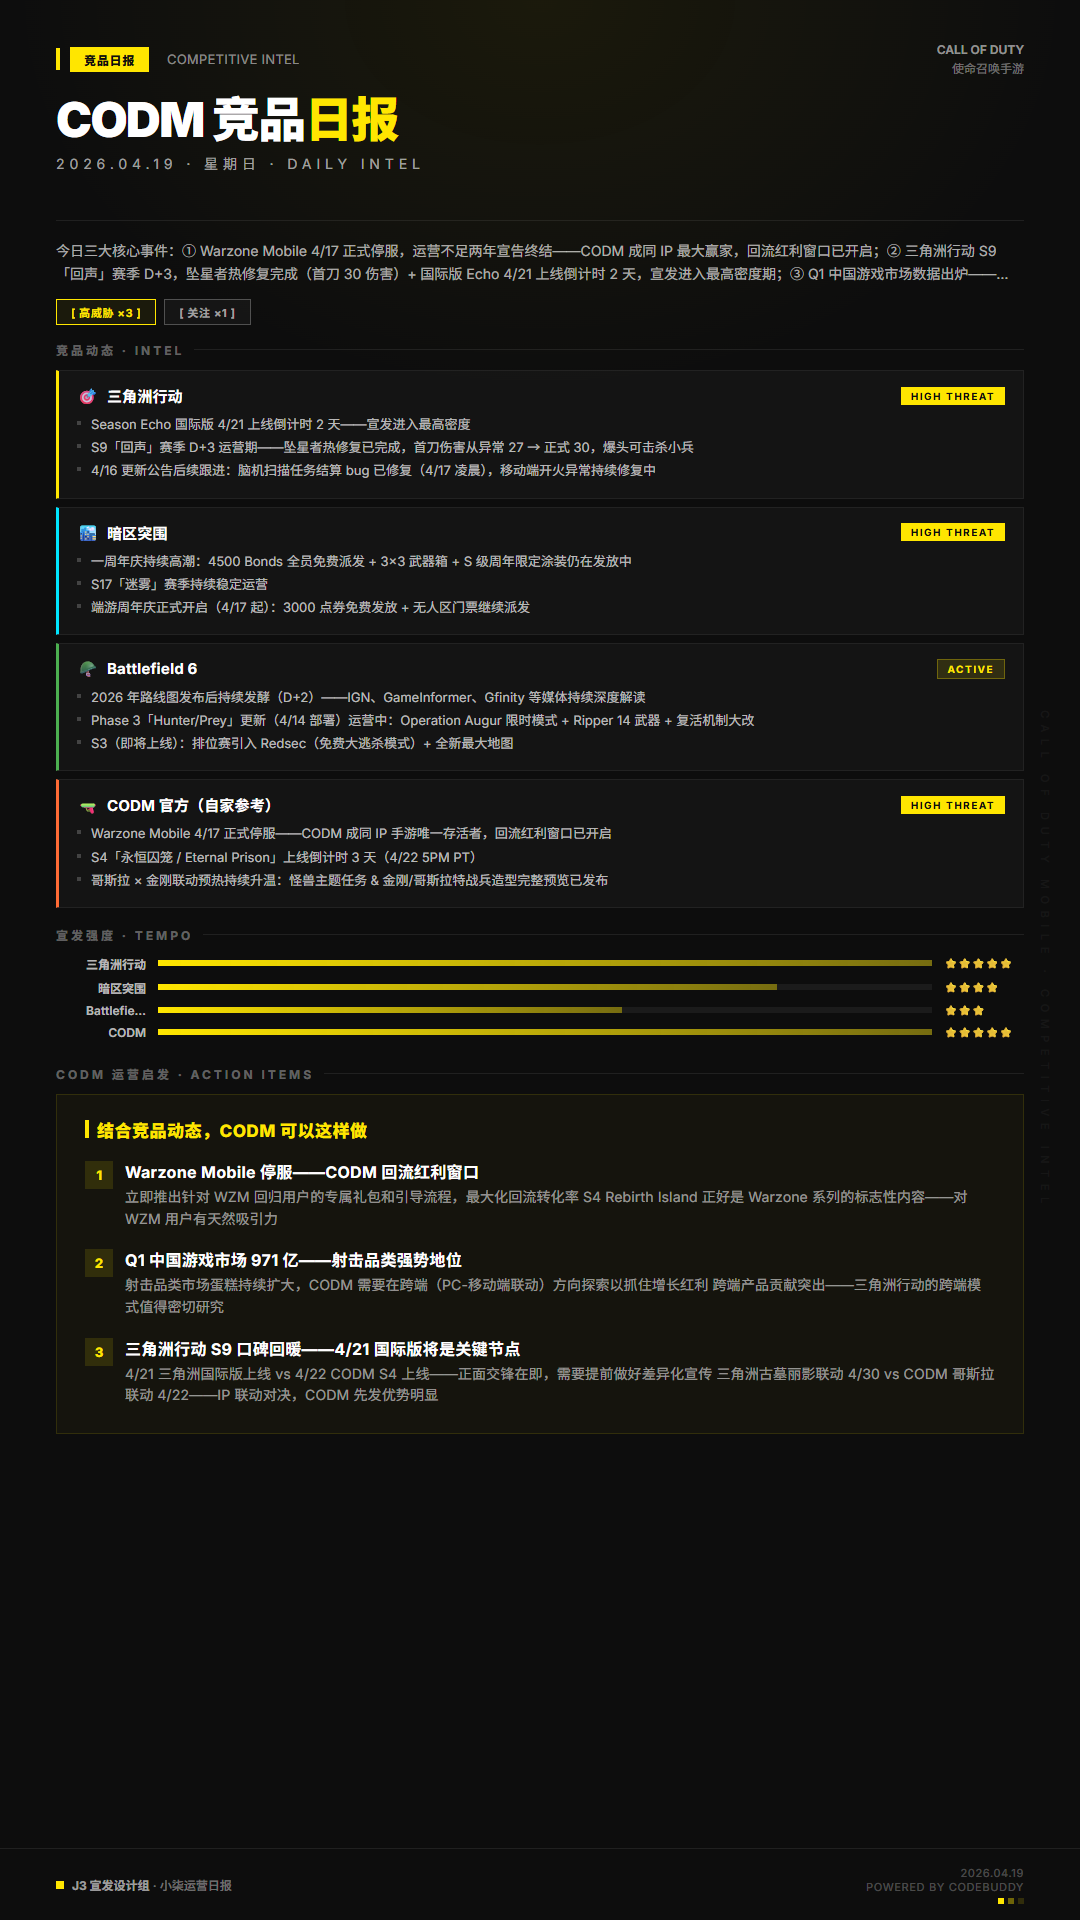
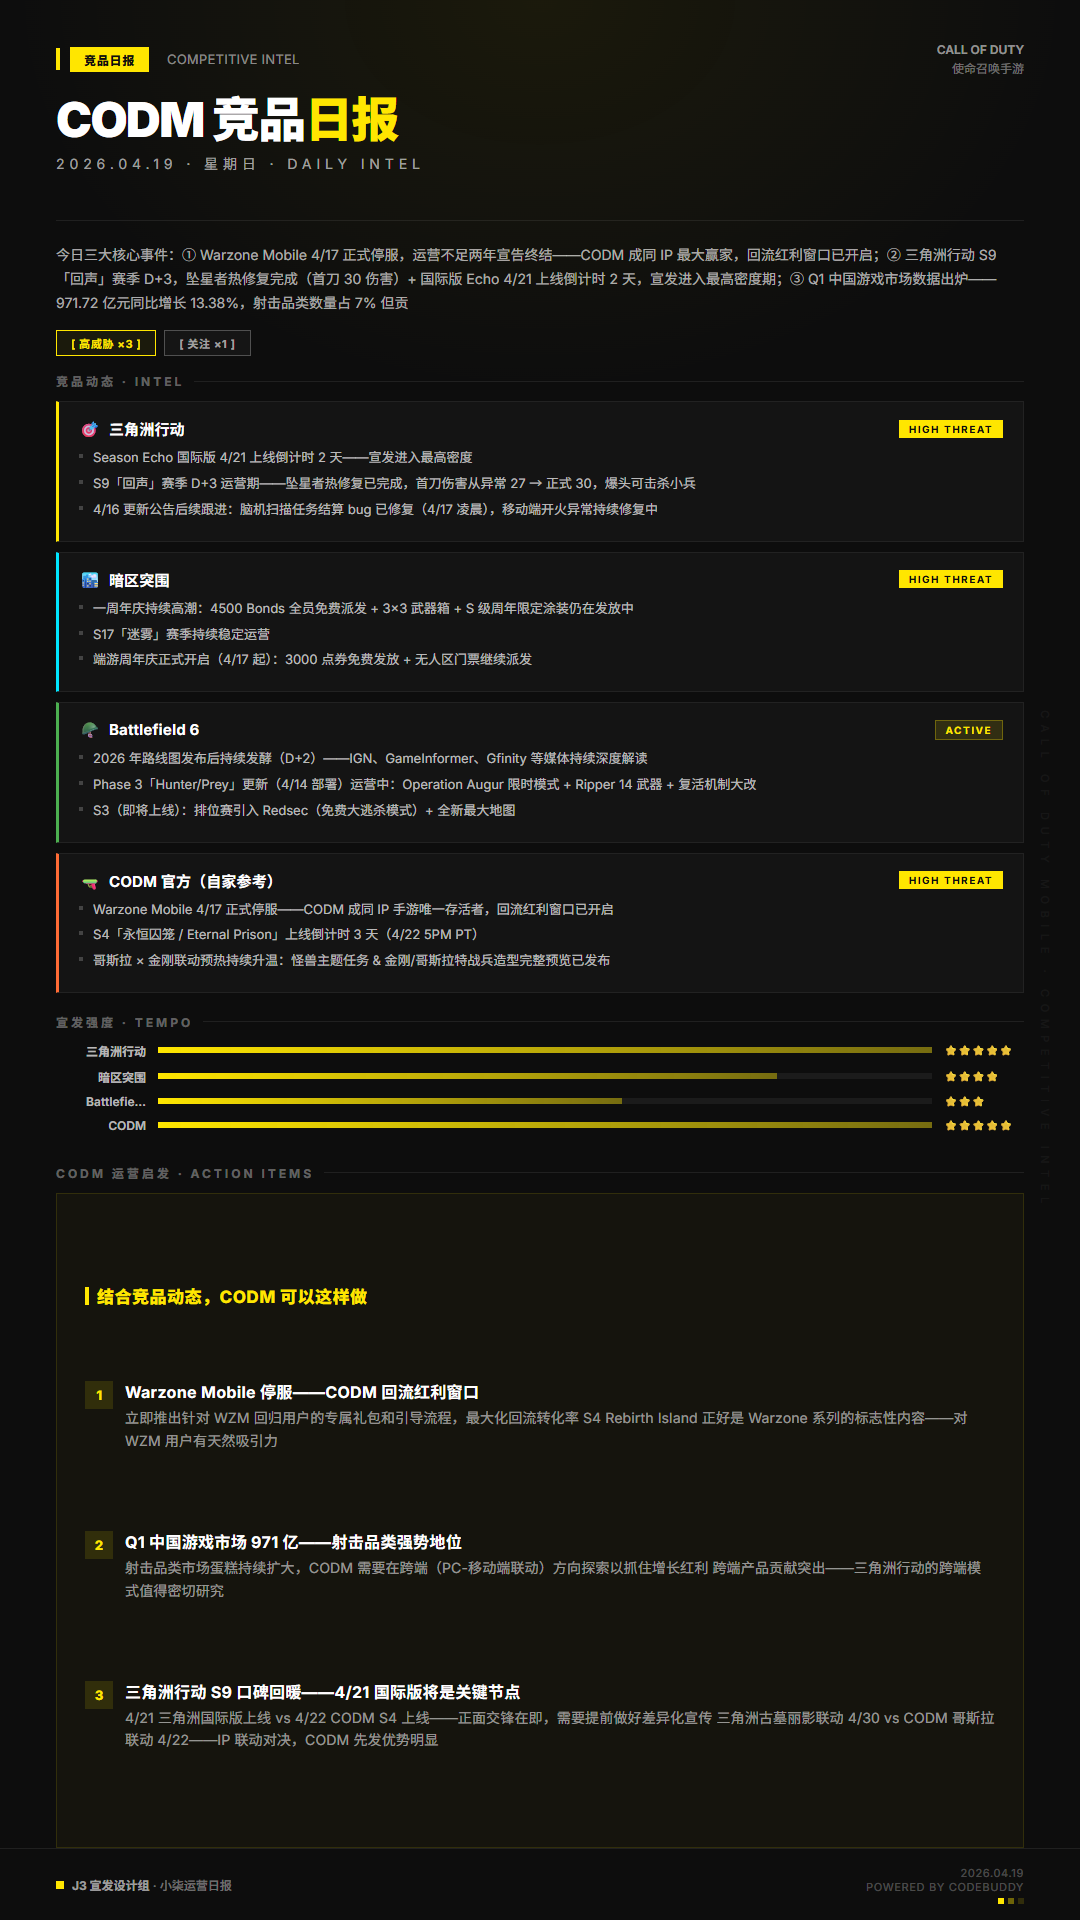
daily: CODM Competitive 20260419

diff --git a/docs/competitive-daily/competitive-daily-card-20260419.html b/docs/competitive-daily/competitive-daily-card-20260419.html
@@ -134,16 +134,16 @@
 
   /* ── 概览区 ── */
   .overview {
-    padding: 18px 56px 14px;
+    padding: 22px 56px 16px;
     flex-shrink: 0;
   }
 
   .overview-text {
     font-size: 14px;
     color: rgba(255,255,255,0.65);
-    line-height: 1.65;
+    line-height: 1.7;
     display: -webkit-box;
-    -webkit-line-clamp: 2;
+    -webkit-line-clamp: 3;
     -webkit-box-orient: vertical;
     overflow: hidden;
   }
@@ -212,8 +212,8 @@
   .comp-cards {
     display: flex;
     flex-direction: column;
-    gap: 8px;
-    margin-bottom: 18px;
+    gap: 10px;
+    margin-bottom: 20px;
     flex-shrink: 0;
   }
 
@@ -221,7 +221,7 @@
     background: #141414;
     border: 0.5px solid rgba(255,255,255,0.06);
     border-left: 3px solid #888;
-    padding: 14px 18px;
+    padding: 16px 20px;
   }
 
   .comp-header {
@@ -269,10 +269,10 @@
   .comp-highlight {
     font-size: 13px;
     color: rgba(255,255,255,0.7);
-    line-height: 1.55;
+    line-height: 1.6;
     padding-left: 14px;
     position: relative;
-    margin-bottom: 3px;
+    margin-bottom: 5px;
   }
 
   .comp-highlight::before {
@@ -287,7 +287,7 @@
 
   /* ── 宣发节奏对比 ── */
   .tempo-section {
-    margin-bottom: 18px;
+    margin-bottom: 22px;
     flex-shrink: 0;
   }
 
@@ -295,7 +295,7 @@
     display: flex;
     align-items: center;
     gap: 12px;
-    margin-bottom: 7px;
+    margin-bottom: 9px;
   }
 
   .tempo-name {
@@ -328,19 +328,22 @@
 
   /* ── CODM 运营启发 ── */
   .insights-section {
-    flex-shrink: 0;
+    flex: 1;
     display: flex;
     flex-direction: column;
     overflow: hidden;
+    min-height: 0;
   }
 
   .insights-box {
     background: rgba(255,230,0,0.03);
     border: 1px solid rgba(255,230,0,0.12);
-    padding: 22px 28px;
+    padding: 24px 28px;
+    flex: 1;
     display: flex;
     flex-direction: column;
-    gap: 8px;
+    justify-content: space-evenly;
+    gap: 0;
   }
 
   .insights-header {
@@ -351,7 +354,7 @@
     display: flex;
     align-items: center;
     gap: 8px;
-    margin-bottom: 4px;
+    flex-shrink: 0;
   }
 
   .insights-header::before {
@@ -366,7 +369,7 @@
     display: flex;
     gap: 12px;
     align-items: flex-start;
-    padding: 5px 0;
+    padding: 6px 0;
   }
 
   .insight-num {
@@ -387,7 +390,7 @@
     flex: 1;
     display: flex;
     flex-direction: column;
-    gap: 3px;
+    gap: 4px;
   }
 
   .insight-title {
@@ -401,7 +404,7 @@
   .insight-text {
     font-size: 14px;
     color: rgba(255,255,255,0.55);
-    line-height: 1.55;
+    line-height: 1.6;
     letter-spacing: 0.01em;
   }
 
